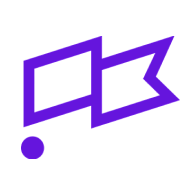
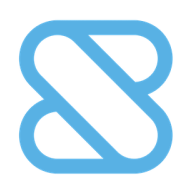
Update clubhouse.io -> shortcut.com (#55)
* Update clubhouse.io -> shortcut.com

* Rename file clubhouse -> shortcut

* Update logo

* Update version number

diff --git a/ext/background/filter/shortcut.js b/ext/background/filter/shortcut.js
@@ -1,14 +1,14 @@
 'use strict';
 
 registerFilter({
-  url_regex: [/^app\.clubhouse\.io\//],
+  url_regex: [/^app\.shortcut\.com\//],
   provider: 'clubhouse',
-  provider_name: (_url) => 'Clubhouse',
+  provider_name: (_url) => 'Shortcut',
   type: (_url) => 'TASK',
   processors: [
     {
       source_id_processor: (url) => {
-        // https://app.clubhouse.io/workspace-slug/story/13/task-name
+        // https://app.shortcut.com/workspace-slug/story/13/task-name
         const { pathname } = new URL(url);
 
         // /workspace-slug/story/13/task-name
